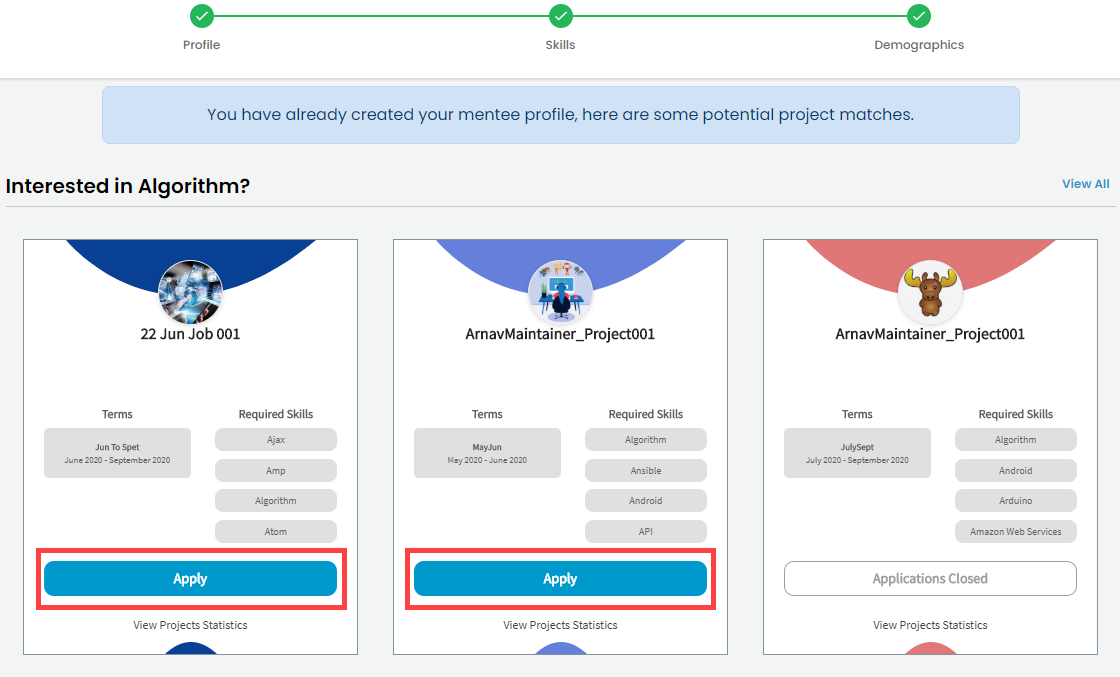
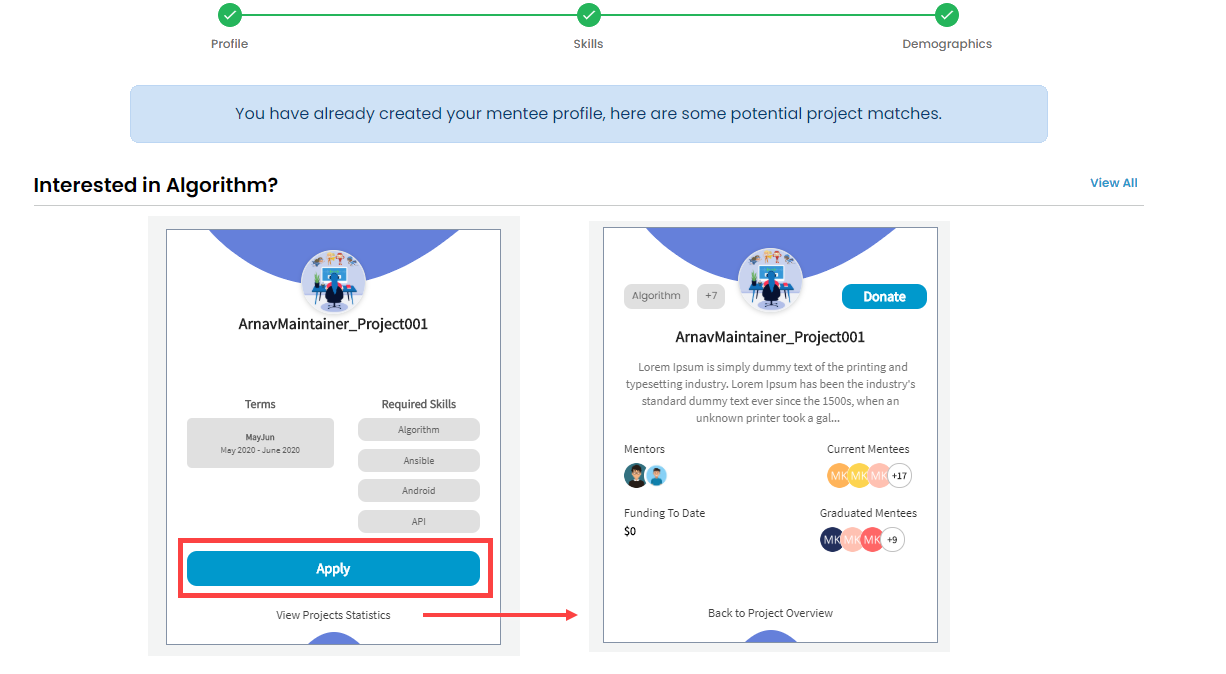
GitBook: [master] 3 pages and 6 assets modified

diff --git a/communitybridge/mentorship/administrators/manage-mentee-tasks.md b/communitybridge/mentorship/administrators/manage-mentee-tasks.md
@@ -17,7 +17,7 @@ A mentee applicant must have at least one application task to complete, for exam
    * [Add Task](manage-mentee-tasks.md#add-task)
    * [Edit Task](manage-mentee-tasks.md#edit-task)
 
-![](../../../.gitbook/assets/mentee-task%20%281%29.png)
+![Mentee Tasks](../../../.gitbook/assets/view-mentee-task.png)
 
 2. \(Optional\) Filter the list by selecting a value from the Filter By Application Status drop-down list.
 
@@ -44,10 +44,10 @@ Following table describes each status:
 
 | Status Name | Description |
 | :--- | :--- |
-| Pending | Mentee is yet to work on the task. |
-| In Progress | Mentee is working on the task, and has changed the status to **In Progress.** |
-| Submitted | Mentee has changed the status to **Submitted.** |
-| Completed | Set to **Completed** if a mentee has completed a task. |
+| **Pending** | Mentee is yet to work on the task. |
+| **In Progress** | Mentee is working on the task, and has changed the status to **In Progress.** |
+| **Submitted** | Mentee has changed the status to **Submitted.** |
+| **Completed** | Set to **Completed** if a mentee has completed a task. |
 
 ### **Add Task**
 
@@ -58,9 +58,11 @@ The Create Task page appears. Complete the form fields and click **Add Task**. W
 
 ### **Edit Task**
 
-{% hint style="info" %}
-You can not edit prerequisite tasks.
+{% hint style="warning" %}
+**Important:** You can not edit prerequisite tasks.
 {% endhint %}
+
+![Edit Mentee Task](../../../.gitbook/assets/edit-mentee-task.png)
 
 Click **Edit Task** for a mentee task.  
  The Edit Task dialog appears. Modify the task and click **Submit**.

diff --git a/communitybridge/mentorship/mentees/become-a-mentee/apply-to-a-project.md b/communitybridge/mentorship/mentees/become-a-mentee/apply-to-a-project.md
@@ -15,9 +15,10 @@ As a mentee, you can get the opportunity to engage in an open source project und
 * If you have a profile, projects that match your skills appear:
 {% endhint %}
 
-3. Click **Apply** on a project card of interest.
+3. Click **Apply** on a project card of interest.  
+On a project card, click View Project Statistics to view related information for a project.
 
-![](../../../../.gitbook/assets/apply-to-a-project.png)
+![Apply to Project](../../../../.gitbook/assets/apply-to-a-project.png)
 
 {% hint style="warning" %}
 **Important:**

diff --git a/communitybridge/mentorship/administrators/manage-mentee-application.md b/communitybridge/mentorship/administrators/manage-mentee-application.md
@@ -24,7 +24,7 @@ An overview of each of your projects appears.
 
 4. Navigate to **Current** **Mentees** tab.
 
-![Mentee Application Status](../../../.gitbook/assets/mentee-application-status-for-admin.png)
+![Mentee Application Status](../../../.gitbook/assets/mentee-application-admin.png)
 
 A list of the persons who have applied to your project appears. The following table describes the additional information:
 
